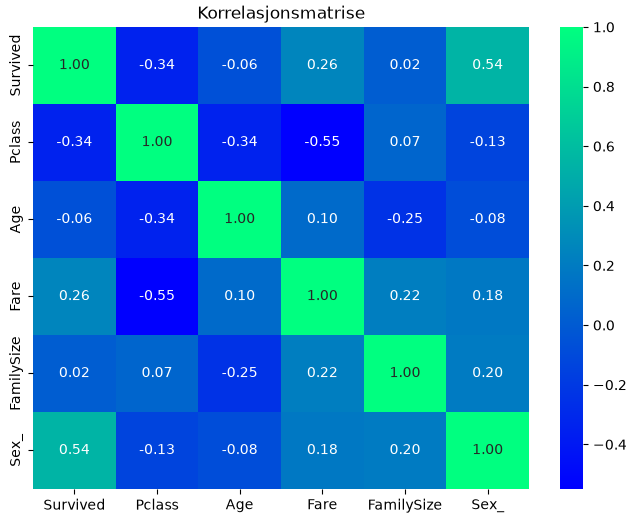
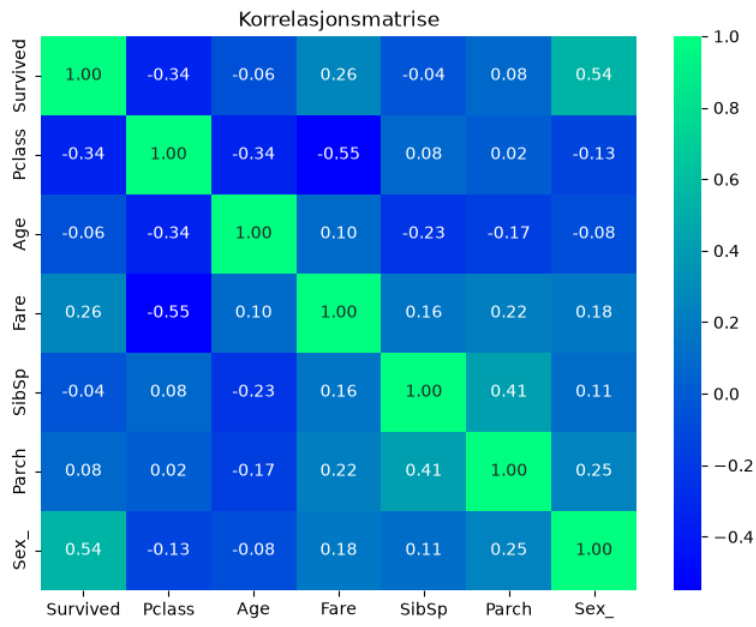
Utbedret introduksjon, beskrivende dataanalyse og metode/resultat for multippel lineær regresjon.

diff --git a/Sections/3. Beskrivende dataanalyse.tex b/Sections/3. Beskrivende dataanalyse.tex
@@ -1,25 +1,49 @@
 \section{Beskrivende dataanalyse (5 poeng)}\label{beskrivende-dataanalyse-5-poeng}
-Datasettet inneholder total 891 rader. En gjennomgang av dette settet, viser at gjennomsnittsalderen lå på 29,7 år, mens medianen lå på 28 år. Alderspennet varierte fra så lavt som 0,42 år til eldre på 80år. Totalt sett, så var det kun 38\% av de som var registrert ombord som overlevde.
+I det opprinnelige datasettet på 891 mangler 177 passasjerer (19.86\%) alder. Ved å avgrense den beskrivende dataanalysen til de 714 observasjonene som ikke mangler alder, unngår vi feilkilder i visualiseringe før modellering.
 
-Før vi satt i gang med modelleringen, så har vi utført enkel databehandling av enkelte variabler for å gjøre disse enklere og mulig å behandler. Variablene `SibSp` (Antall barn + ektefeller en enkeltperson hadde ombord) og `Parch` (Antall barn + foreldre en enkeltperson hadde ombord) har blitt slått sammen for å gi en samlet familiestørrelse (`FamilySize`). Variabelen `sex` vi konvertert til numeriske verdier hvor menn har fått verdien 0 og kvinner har fått verdien 1.
+Tabellen under oppsummerer gjenomsnitt, median, standardavvik, varians og spenn for variablene i utvalget.
+
+\begin{table}[htbp]
+    \centering
+    \caption{Deskriptiv statistikk for numeriske variabler.}
+    \label{tab:deskriptiv_statistikk}
+    \begin{tabular}{lcccccc}
+        \hline
+        \textbf{Variabel} & \textbf{Gjennomsnitt} & \textbf{Median} & \textbf{Standardavvik ($\sigma$)} & \textbf{Varians ($\sigma^2$)} & \textbf{Min} & \textbf{Maks} \\
+        \hline
+        \textbf{Survived}   & 0,41  & 0,00  & 0,49  & 0,24    & 0,00 & 1,00   \\
+        \textbf{Pclass}     & 2,24  & 2,00  & 0,84  & 0,70    & 1,00 & 3,00   \\
+        \textbf{Age}        & 29,70 & 28,00 & 14,53 & 211,02  & 0,42 & 80,00  \\
+        \textbf{Fare}       & 34,69 & 15,74 & 52,92 & 2800,41 & 0,00 & 512,33 \\
+        \textbf{FamilySize} & 0,94  & 0,00  & 1,48  & 2,20    & 0,00 & 7,00   \\
+        \hline
+    \end{tabular}
+\end{table}
+
+I tillegg til å kutte ut rader som mangler alder (\textit{Age}), så er følgende data wrangling gjort:
+
+\begin{itemize}
+    \item Variabelen for kjønn (\textit{Sex}) er konvertert til numeriske verdier hvor menn har fått verdien 0 og kvinner har fått verdien 0.
+\end{itemize}
+
 
 \noindent
 \begin{minipage}[c]{0.48\textwidth}
     \textbf{Korrelasjonsmatrise}
 
-    Korrelasjonsmatrisen viser en negativ korrelasjon på
-    $-0.55$ mellom variablene \texttt{Fare} og \texttt{Pclass}.
-    Dette er som forventet, da lavere klassenummer, som
-    første klasse, er forbundet med høyere billettpriser.
-    Variabelen \texttt{Survived} har den høyeste positive
-    korrelasjonen med kjønn, på $0.54$, og den sterkeste
-    negative korrelasjonen med \texttt{Pclass}, på $-0.34$.
+    \begin{itemize}
+        \item Overlevelse har sterkest korrelasjon med kjønn (\textit{Sex\_}) på 0.54 og en negativ korrelasjon med passasjerklasse (\textit{Pclass}) på -0.36. Billettpris (\textit{Fare}) har en positivt korrelasjon med overlevelse på 0.27.
+        \item Det er en tydelig negativ korrelasjon mellom \textit{Pclass} og \textit{Fare} på -0.55, og mellom \textit{Pclass} og \textit{Age} på -0.37. \textit{Age} har også en negativ korrelasjon med \textit{SibSp} på -0.31 og \textit{Parch} på -0.19, noe som bekrefter at familiestørrelsen og klassen til passasjerene har en forklaringsevne ovenfor alder.
+    \end{itemize}
+    
 \end{minipage}
 \hfill
 \begin{minipage}[c]{0.48\textwidth}
     \centering
     \includegraphics[width=0.85\linewidth]
-    {Images/Korrelasjonsmatrise.png}
+    {Images/Korrelasjonsmatrise_alderkuttetut.png}
+    \captionof{figure}{Korrelasjon mellom variabler}
+    \label{fig:korrelasjonsmatrise_alder}
 \end{minipage}
 
 \par\medskip
@@ -28,16 +52,16 @@ Før vi satt i gang med modelleringen, så har vi utført enkel databehandling a
 \begin{minipage}[c]{0.48\textwidth}
     \textbf{Histogram – aldersfordeling}
 
-    Histogrammet viser en tilnærmet normalfordeling,
-    med noe positiv skjevhet og en større andel unge
-    voksne. Dette kan delvis skyldes at manglende
-    aldersverdier er erstattet med medianen.
+    Når vi kun ser på observasjonene hvor alder er tilstede, ser aldersfordeling svært jevn ut. Det er en noe positiv skjevhet og en større konsentrasjon av unge voksne i alderspennet 20-30 år.
+    
 \end{minipage}
 \hfill
 \begin{minipage}[c]{0.48\textwidth}
     \centering
     \includegraphics[width=0.85\linewidth]
-    {Images/histogram_aldersfordeling.png}
+    {Images/histogram_aldersfordeling_alderkuttetut.png}
+    \captionof{figure}{Aldersfordeling}
+    \label{fig:histogram_aldersfordeling}
 \end{minipage}
 
 \par\medskip
@@ -47,18 +71,18 @@ Før vi satt i gang med modelleringen, så har vi utført enkel databehandling a
     \textbf{Boksplott – aldersfordeling for overlevende
     og omkomne}
 
-    Boksplottet viser at medianalderen er relativt lik
-    for både overlevende og omkomne. Plottet viser også
-    uteliggere blant både yngre og eldre passasjerer.
-    Dette kan tyde på at alder hadde betydning for
-    overlevelsen, og kan være forenlig med prinsippet
-    om kvinner og barn først under evakueringen.
+    \begin{itemize}
+        \item De overlevende har en noe lavere kvartilbredde på ca 19 år enn de omkomne på ca 21 år.
+        \item Blant de omkomne foreligger det flere uteliggere i høyere aldersgrupper. 
+    \end{itemize}
 \end{minipage}
 \hfill
 \begin{minipage}[c]{0.48\textwidth}
     \centering
     \includegraphics[width=0.85\linewidth]
-    {Images/boksplott_aldersfordeling_overlevende_og_dode.png}
+{Images/boksplott_aldersfordeling_overlevende_og_dode_alderkuttetut.png}
+    \captionof{figure}{Boksplott for alder fordelt på overlevelse}
+    \label{fig:boksplott_aldersfordeling_overlevende_og_døde}
 \end{minipage}
 
 \par\medskip
@@ -67,18 +91,19 @@ Før vi satt i gang med modelleringen, så har vi utført enkel databehandling a
 \begin{minipage}[c]{0.48\textwidth}
     \textbf{Stolpediagram – overlevelse fordelt på kjønn}
 
-    Stolpediagrammet viser fordelingen av overlevelse
-    basert på kjønn. Det kommer tydelig frem at
-    flertallet av mennene omkom, mens en større andel
-    av kvinnene overlevde. Dette er forenlig med
-    prinsippet om kvinner og barn først under
-    evakueringen.
+    \begin{itemize}
+        \item Blant mennene (\textit{male}) omkom 360 av 453 registrerte. Overlevelsesrate på ~20.5\%.
+        \item Blant kvinnene (\textit{female}) omkom 64 av 261 registererte. Overlevelsesrate på ~75.5\%.
+    \end{itemize}
+    
 \end{minipage}
 \hfill
 \begin{minipage}[c]{0.48\textwidth}
     \centering
     \includegraphics[width=0.85\linewidth]
-    {Images/overlevende_menn_vs_kvinner.png}
+    {Images/ovelevende_menn_vs_kvinner_alderkuttetut.png}
+    \captionof{figure}{Overlevelsesfordeling basert på kjønn}
+    \label{fig:overlevende_menn_vs_kvinner}
 \end{minipage}
 
 

diff --git a/Sections/5. Resultater.tex b/Sections/5. Resultater.tex
@@ -1,37 +1,35 @@
 \section{Resultater (10 poeng)}\label{resultater-10-poeng}
 \subsection{1. Multippel lineær regresjon}
 
-\begin{center}
-  \begin{tabular}{|l|r|r|r|r|r|r|}
-    \hline
-    & coef & \textbf{std err} & \textbf{t} & \textbf{$P>|t|$} & \textbf{[0.025} & \textbf{0.975]} \\
-    \hline
-    \textbf{Intercept} & 47.604 & 1.478 & 32.199 & 0.000 & 44.702 & 50.508 \\
-    \textbf{Pclass} & -6.379 & 0.579 & -11.016 & 0.000 & -7.517 & -5.243 \\
-    \textbf{SibSp} & -3.912 & 0.557 & -7.020 & 0.000 & -5.006 & -2.812 \\
-    \textbf{Parch} & -0.9576 & 0.622 & -1.538 & 0.124 & -2.180 & 0.264 \\
-    \textbf{Sex\_} & -3.332 & 1.037 & -3.212 & 0.001 & -5.369 & -1.296 \\
-    \hline
-  \end{tabular}
-\end{center}
+\begin{table}[htbp]
+    \centering
+    \caption{Resultater fra multippel lineær regresjonsmodell for aldersestimering.}
+    \label{tab:regresjon_alder}
+    \begin{tabular}{lcccccc}
+        \hline
+        \textbf{Variabel} & \textbf{coef} & \textbf{std err} & \textbf{t} & \textbf{$p$-verdi} & \textbf{[0.025} & \textbf{0.975]} \\
+        \hline
+        \textbf{Intercept} & 47,604 & 1,478 & 32,199 & 0,000 & 44,702 & 50,508 \\
+        \textbf{Pclass}    & -6,379 & 0,579 & -11,016 & 0,000 & -7,517 & -5,243 \\
+        \textbf{SibSp}     & -3,912 & 0,557 & -7,020 & 0,000 & -5,006 & -2,812 \\
+        \textbf{Parch}     & -0,958 & 0,622 & -1,538 & 0,124 & -2,180 & 0,264 \\
+        \textbf{Sex\_}     & -3,332 & 1,037 & -3,212 & 0,001 & -5,369 & -1,296 \\
+        \hline
+    \end{tabular}
+\end{table}
 
+Konstantleddet til modellen ($\beta_0=47.6$) representerer forventningsverdien for en mann, uten påvirkning fra de andre prediktorene. Variabelen \textit{Pclass} ($\beta_1 = -6.38, p < 0.000$) står statistisk signifikant. For hver lavere klasse en passasjer tilhørte (eks. klasse 1. til klasse 2.), reduserer den forventede alderen i snitt med 6.38 år. \textit{SibSp} ($\beta_2 = -3.91, p < 0.000$) står statistisk signifikant og viser at hvert søsken/ektefelle en passasjer hadde ombord, reduserte den forventede alderen med 3.91 år. \textit{Sex\_} ($\beta_4 = -3.33, p = 0.001$) står også statistisk signifikant og viser at kvinner i snitt er 3.33 år yngre enn menn. \textit{Parch} ($\beta_3 = -0.95, p = 0.124$) er ikke statistisk signifikant med et 5\% signifikansnivå. Utdyp betydning for dette...
 
-(Forklaringsgrad) Modellen har em justert $R^2$ på 0.230. Dette betyr at forklaringsvariablene samlet forklarer 23\% av variasjonen i alder hos passasjerene.
+Samlet utgjør modellen justert determinasjonskoeffisient på $R^2 = 0.23$, hvilket som betyr at den forklarer 23\% av variansen i alderen til passasjerene. 
 
-Intercept = 47,6. Den forventede alderen er 47,6 når alle forklaringsvariablene har verdien 0.
-
-Passasjerklasse (Pclass) har en verdi på -6.38. For hver klasseøkning minsker den forventede alderen i snitt med 6.38 år. Passasjerer i høyere klasser (lavere klassenummer) var i snitt mye yngre. $P > |t| = 0.000$, anses som statistisk signifikant.
-
-Søsken/ektefelle (Sibsp) har en verdi på -3.91. For hvert søsken eller ektefelle passasjeren reiste med, reduserte den forventede alderen med 3.91 år. $P > |t| = 0.000$, anses som statistisk signifikant.
-
-Foreldre/barn (Parch) har $P > |t| = 0.124$, grunnet dette anses antall foreldre/batn som ikke statistisk signifikant. Vi kan ikke si at (Parch) har en uavhengig effekt på alder.
-
-Kjønn (Sex\_) har en verdi på -3.33. Kvinner var i snitt 3.33 år yngre enn menn. $P > |t| = 0.001$, anses som statistisk signifikant.
 
 \noindent
 \begin{minipage}[c]{0.48\textwidth}
     \textbf{Residualplott}
 
+    \begin{itemize}
+        \item 
+    \end{itemize}
         
 
 \end{minipage}
@@ -46,6 +44,10 @@ Kjønn (Sex\_) har en verdi på -3.33. Kvinner var i snitt 3.33 år yngre enn me
 \begin{minipage}[c]{0.48\textwidth}
     \textbf{QQplott}
 
+    \begin{itemize}
+        \item Punktene i figuren følger i stor grad linjen, noe som antyder at feileddene i hovedsak er tilnærmet normalfordelte.
+        \item Punktene har noe positiv skjevhet, da enkeltene av punktene i den øvre delen legger seg litt ovenfor linjen. Skjevheten her skyldes at det finnes eldre passasjerer i datasettet som har en høyere rell alder enn det modellen predikerer.
+    \end{itemize}
 
 
 \end{minipage}
@@ -55,25 +57,3 @@ Kjønn (Sex\_) har en verdi på -3.33. Kvinner var i snitt 3.33 år yngre enn me
     \includegraphics[width=0.89\linewidth]
     {Images/linear_qqplot.png}
 \end{minipage}
-
-
-
-\begin{enumerate}
-\def\labelenumi{\arabic{enumi}.}
-\item
-  Presenter resultatene på en tydelig og strukturert måte. Dette kan for
-  eksempel gjøres ved hjelp av tabeller, grafer eller andre
-  visualiseringer som gjør funnene lettere å forstå.
-\item
-  Tolk resultatene. Tolkningen bør tilpasses regresjons-,
-  klassifiserings- eller klyngeanalyse-oppgaven du har valgt.
-\item
-  Diskuter begrensninger og forbehold som er viktige å ta hensyn til når
-  resultatene skal tolkes. Dette kan for eksempel være begrensninger ved
-  datasettet, modellene eller evalueringsmetodene.
-\item
-  (Valgfritt) Se på mulige videre analyser. Beskriv eventuelt
-  alternative eller forbedrede metoder som kunne vært brukt for å
-  analysere dataene i fremtiden, og hvordan disse potensielt kunne gitt
-  ytterligere innsikt.
-\end{enumerate}

diff --git a/Sections/2. Introduksjon.tex b/Sections/2. Introduksjon.tex
@@ -1,6 +1,13 @@
 \section{Introduksjon (10 poeng)}\label{introduksjon-10-poeng}
-Vårt prosjekt tar for seg datasettet \textit{Titanic-Dataset.csv} hentet fra kaggle. Datasesettet dokumenterer informasjon knyttet til 891 passasjerer ombord Titanic i 1912 \parencite[]{titanic_dataset}.
+Undergangen av Titanic i 1912 er en av verdens mest kjente maritime tragedier. Dette prosjekt tar for seg datasettet \textit{Titanic-Dataset.csv}, hentet fra kaggle \parencite[]{titanic_dataset}.. Datasesettet dokumenterer informasjon knyttet til 891 passasjerer ombord på skipet. Prosjektet vårt kombinerer både en regresjonsoppgave for å anslå alder og klassifisering for å anslå sannsynlighet for overlevelse.
 
-Problemstillingen vi har tatt for oss er todelt. Datasettet mangler data knyttet til enkelte av radene, vi ønsker derfor å se om vi kan benytte multippel regresjon for å anslå passasjerers alder basert på forhåndbestemte faktorer som klasse, kjønn og størrelse på familie. 
+Problemstillingen i prosjektet er todel:
+\begin{itemize}
+    \item \textbf{Multippel lineær regresjon (alder)}: Datasettet mangler verdier knyttet til enkelte variabler som alder (\textit{Age}). Vi ønsker derfor å undersøke om multippel lineær regresjon kan brukes til å predikere alder basert på forhåndsbestemte variabler som passasjerklasse (\textit{Pclass}), kjønn (\textit{Sex}), antall søsken/ektefeller (\textit{SibSp}) og antall foreldre/barn (\textit{Parch}).
+    \item \textbf{Klassifisering (overlevelse)}: Hovedmålet er å estimere sannsynligheten for om en passasjer overlevde hendelsen eller ikke (\textit{Survived}). Her ønsker vi å benytte den estimerte alderen fra regresjonsmodellen som en av prediktorene. Vi ønsker å finne hvilke faktorer som spilte en forskjell på liv og død, samt identifisere en modell som kan gi et realistisk bilde av sjansen for overlevelse.
+\end{itemize}
 
-Det andre vi ønsker å ta for oss er å estimere sannsynligheten for at en passasjer har overlevd hendelsen eller ikke ved bruk av klassifisering. Hvilke faktorer kan ha utgjort forskjellen på liv og død? Vi ønsker å finne en metode som gir et nøyaktig og realistisk bilde av sjansen for passasjerers overlevelse.
+Formålet med prosjektet er å oppnå en bredere forståelse for hvordan sosiodemografisk faktorer kan påvirke sjansen for å overleve under en krisesituasjon. Under prosjektet ønsker vi å finne ut om: I hvor stor grad kan multippel lineær regresjon forklare...
+Hvilke faktorer utgjør størst forskjell for sannsynligheten for overlevelse, og kan disse faktorene bekrefte prinsippet om kvinner og barn først?
+
+Målgruppen for prosjektet er individer som ønsker praktisk og forståelig innsikt i dataanalyse og klassifisering. I stedet for å finne modellen med størst mulig treffprosent, så ønsker vi å finne en metode som leverer gode resultater samtidig som den er enkel å forklare og tolke.

diff --git a/Sections/4. Metoder.tex b/Sections/4. Metoder.tex
@@ -1,16 +1,23 @@
 \section{Metoder (10 poeng)}\label{metoder-10-poeng}
 
 \subsection{1. Multippel lineær regresjon} 
-For å analysere sammenhengen mellom alder og forklaringsvariablene, så har vi benyttet multippel lineær regresjon estimer med OLS. \\
-$$Y_i = \beta_0 + \beta_1 x_{1i} + \beta_2 x_{2i} + \dots + \beta_p x_{pi} + e_i$$
+For å løse den første delen av problemstilling, estimering av manglende aldersdata hos enkelte rader, benytter vi multippel lineær regresjon og estimering med OLS. Ettersom at alder er en kontinuerlig variabel, så er lineær regresjon en egnet metode for å undersøke sammenhengen mellom alder og forklaringsvariablene.
+
+% $$Y_i = \beta_0 + \beta_1 x_{1i} + \beta_2 x_{2i} + \dots + \beta_p x_{pi} + e_i$$
 
 \paragraph{Validering} \mbox{} \\
-For å vurdere gyldigheten av modellen og undersøke om forutsetningene for OLS estimeringen var på plass gjennomfører vi grafiske residualanalyser. 
-
-Linearitet: Vi undersøker om residualene har en jevn spredning ved å plotte dem mot modellens predikerte verdier (scatterplott)
-
-Normalfordeling: Vi benytter et QQ plott for å sjekke om feile i modellen følger en normalfordeling.
+Determinasjonskoeffisient (justert $R^2$) benyttes for å si hvor stor andel av variansen i alder som kan forklares av de valgte prediktorene. \\
+HKoeffisienten til hver prediktor evalueres mot et signifikansnivå på 0.05 for å avgjøre om sammenhengen mellom prediktoren og alder er statistisk signifikant. \\
+To grafiske analyser utføres for å validere at forutsetningene til OLS er oppfylt:
+\begin{itemize}
+    \item Scatterplot: Undersøke om sammenhengen er lineær.
+    \item Q-Q-plott: Undersøke om residualene er normalfordelte.
+\end{itemize}
 
 \subsection{2. Klassifisering}
 
-Fjerning av rader som har manglende data, eller innføring av median alder der alder manglet, kan potensielt forårsake skjevheter i datasettet som modellene evalueres etter.
+\paragraph{Begrensninger ved metodene}
+\begin{itemize}
+    \item Fjerning av rader som har manglende data, kan potensielt forårsake skjevheter i datasettet som modellene evalueres etter.
+    \item Ettersom at OLS er uavgrenset, så kan det forekomme negative aldersverdier dersom en passasjer har en kombinasjon av flere prediktorer (eks. høyt antall pårørende).
+\end{itemize}

diff --git a/main.tex b/main.tex
@@ -5,6 +5,7 @@
 \PassOptionsToPackage{hyphens}{url}
 \PassOptionsToPackage{dvipsnames,svgnames,x11names}{xcolor}
 
+\usepackage{caption}
 \usepackage{xcolor}
 \usepackage[margin=1in]{geometry}
 \usepackage{amsmath,amssymb}
